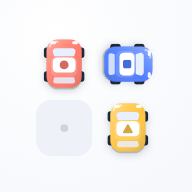
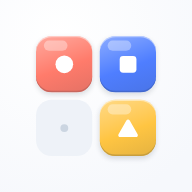
Такси-пятнашки: обратно квадратные такси
Машинки на поле 5×5 слишком детальные, автор вернул тайлы. Сложный уровень 5
остаётся.

Claude-Session: https://claude.ai/code/session_01UgfpgFwki24HqyBcqzzLcR

Changed region(s): [[0.1875, 0.1875, 0.8125, 0.8125]]

diff --git a/UI Design/prototypes/taxi-slide/index.html b/UI Design/prototypes/taxi-slide/index.html
@@ -49,11 +49,7 @@
   .board { position: absolute; background: var(--ui-surface); border-radius: var(--ui-radius-card); box-shadow: var(--ui-shadow-card); padding: 8px; display: grid; gap: 5px; }
   .cell { position: relative; border-radius: 12px; background: var(--ui-surface-muted); display: grid; place-items: center; }
   .cell.empty::before { content: ""; width: 7px; height: 7px; border-radius: 50%; background: var(--ui-disabled); }
-  .cell > .cab { position: absolute; inset: 1px; }
-  .cab { --rot: 0deg; position: relative; color: var(--c); transform: rotate(var(--rot)); filter: drop-shadow(0 4px 5px rgba(31,41,55,.16)); }
-  .cab svg.car-svg { width: 100%; height: 100%; display: block; }
-  .cab .sign { position: absolute; left: 50%; top: 51.5%; width: 21%; height: 21%; transform: translate(-50%, -50%) rotate(calc(-1 * var(--rot))); color: color-mix(in srgb, var(--c) 80%, #1f2937); }
-  .cab .sign svg { width: 100%; height: 100%; display: block; }
+  .cell > .tile { position: absolute; inset: 1px; }
   .cell.target { box-shadow: 0 0 0 3px var(--tc); }
   .cell.target.empty { background: color-mix(in srgb, var(--tc) 12%, var(--ui-surface-muted)); }
 
@@ -78,7 +74,7 @@
   /* home */
   .home { justify-content: space-between; align-items: center; text-align: center; padding: var(--ui-space-7) var(--ui-space-5) var(--ui-space-7); background: radial-gradient(120% 60% at 50% 0%, #fff 0%, var(--ui-background) 70%); }
   .logo { display: grid; grid-template-columns: repeat(3, 64px); gap: 8px; margin-top: var(--ui-space-7); }
-  .logo .cab, .logo .ghost { width: 64px; height: 64px; }
+  .logo .tile, .logo .ghost { width: 64px; height: 64px; }
   .logo .ghost { border-radius: 14px; background: var(--ui-surface-muted); display: grid; place-items: center; }
   .logo .ghost::before { content: ""; width: 8px; height: 8px; border-radius: 50%; background: var(--ui-disabled); }
   .home h1 { font-size: 34px; font-weight: 700; line-height: 1.15; margin-top: var(--ui-space-6); }
@@ -117,7 +113,7 @@
   .rules li { display: flex; gap: var(--ui-space-3); font-size: 14px; line-height: 1.4; }
   .rules li b { flex: none; width: 24px; height: 24px; border-radius: 8px; background: #e8efff; color: var(--ui-blue); font-size: 12px; display: grid; place-items: center; }
   .demo { display: flex; justify-content: center; align-items: center; gap: 6px; margin: var(--ui-space-2) 0; }
-  .demo .cab, .demo .dcell { width: 44px; height: 44px; }
+  .demo .tile, .demo .dcell { width: 44px; height: 44px; }
   .demo .dcell { border-radius: 12px; background: var(--ui-surface-muted); display: grid; place-items: center; }
   .demo .dcell::before { content: ""; width: 7px; height: 7px; border-radius: 50%; background: var(--ui-disabled); }
   .demo .arrow { color: var(--ui-blue); width: 22px; height: 22px; }
@@ -152,8 +148,7 @@
 <script>
 const GLYPH = { red: 'g-circle', blue: 'g-square', yellow: 'g-triangle' };
 const use = (id, cls = '') => `<svg class="${cls}"><use href="#${id}"/></svg>`;
-// Машинка — assets/taxi-car.svg; render.mjs кладёт её текст в window.TAXI_CAR.
-const taxi = (color, rot = 0) => `<div class="cab c-${color}" style="--rot:${rot}deg">${window.TAXI_CAR ?? ''}<span class="sign">${use(GLYPH[color])}</span></div>`;
+const taxi = (color) => `<div class="tile c-${color}">${use(GLYPH[color], 'glyph')}</div>`;
 const paxEl = (color, patience, critical, style = '') =>
   `<div class="pax c-${color}${critical ? ' critical' : ''}" style="${style}"><span class="num">${patience}</span><span class="mark">${use(GLYPH[color])}</span></div>`;
 const colorVar = { red: 'var(--ui-coral)', blue: 'var(--ui-blue)', yellow: 'var(--ui-yellow)' };
@@ -234,9 +229,9 @@ const game1 = gameScreen({ level: 1, served: 0, total: 3, grid: LEVEL1, passenge
 const screens = [
   ['1. Главный', `<div class="phone home">
       <div class="logo">
-        ${taxi('red')}<div class="ghost"></div>${taxi('blue', 90)}
+        ${taxi('red')}<div class="ghost"></div>${taxi('blue')}
         <div class="ghost"></div>${taxi('yellow')}<div class="ghost"></div>
-        ${taxi('blue', 270)}<div class="ghost"></div>${taxi('red', 180)}
+        ${taxi('blue')}<div class="ghost"></div>${taxi('red')}
       </div>
       <h1>Такси-<br>пятнашки</h1>
       <div style="flex:1"></div>
@@ -257,7 +252,7 @@ const screens = [
   ['4. «Как играть» — сам на уровне 1 и по «?»', `<div class="phone">${game1}
       <div class="scrim"><div class="modal">
         <h2>Как играть?</h2>
-        <div class="demo">${taxi('blue', 90)}${use('i-arrow', 'arrow')}<div class="dcell"></div>${use('i-arrow', 'arrow')}${paxEl('blue', 3, false)}</div>
+        <div class="demo">${taxi('blue')}${use('i-arrow', 'arrow')}<div class="dcell"></div>${use('i-arrow', 'arrow')}${paxEl('blue', 3, false)}</div>
         <ol class="rules">
           <li><b>1</b><span>Сдвигай такси в соседнюю пустую клетку.</span></li>
           <li><b>2</b><span>Подай такси того же цвета и знака к пассажиру, пока его число не стало нулём.</span></li>

diff --git a/apps/taxi-slide/src/styles.css b/apps/taxi-slide/src/styles.css
@@ -101,23 +101,17 @@ svg { display: block; }
 .c-yellow { --c: var(--ui-yellow); }
 .c-green { --c: var(--ui-success); }
 
-/* ---------- машинка такси ---------- */
-.car { --rot: 0deg; position: relative; width: 100%; height: 100%; color: var(--c); transform: rotate(var(--rot)); transition: transform 170ms cubic-bezier(.3,1.3,.5,1); }
-.car .car-svg { width: 100%; height: 100%; }
-.car .sign { position: absolute; left: 50%; top: 51.5%; width: 21%; height: 21%; transform: translate(-50%, -50%) rotate(calc(-1 * var(--rot))); transition: transform 170ms cubic-bezier(.3,1.3,.5,1); color: color-mix(in srgb, var(--c) 80%, #1f2937); display: grid; place-items: center; }
-.car .sign svg { width: 100%; height: 100%; }
-
 /* ---------- главный ---------- */
 .home { align-items: center; text-align: center; justify-content: space-between; background: radial-gradient(120% 60% at 50% 0%, #fff 0%, var(--ui-background) 70%); }
 .home-logo { margin-top: 12vh; display: grid; grid-template-columns: repeat(3, 68px); gap: 10px; }
 .home-logo > * { width: 68px; height: 68px; }
 .home-logo .hole { border-radius: 28%; background: var(--ui-surface-muted); display: grid; place-items: center; }
 .home-logo .hole::before { content: ""; width: 8px; height: 8px; border-radius: 50%; background: var(--ui-disabled); }
-.home-logo .bob { animation: float 3.2s ease-in-out infinite; filter: drop-shadow(0 6px 8px rgba(31,41,55,.16)); }
-.home-logo .bob:nth-child(3) { animation-delay: -.8s; }
-.home-logo .bob:nth-child(5) { animation-delay: -1.6s; }
-.home-logo .bob:nth-child(7) { animation-delay: -2.4s; }
-.home-logo .bob:nth-child(9) { animation-delay: -1.2s; }
+.home-logo .tile { animation: float 3.2s ease-in-out infinite; }
+.home-logo .tile:nth-child(3) { animation-delay: -.8s; }
+.home-logo .tile:nth-child(5) { animation-delay: -1.6s; }
+.home-logo .tile:nth-child(7) { animation-delay: -2.4s; }
+.home-logo .tile:nth-child(9) { animation-delay: -1.2s; }
 @keyframes float { 50% { transform: translateY(-6px); } }
 .home h1 { font-size: 36px; font-weight: 700; line-height: 1.15; margin-top: var(--ui-space-6); }
 .home .btn-large { max-width: 360px; margin-bottom: var(--ui-space-5); animation: breathe 2.4s ease-in-out infinite; }
@@ -199,13 +193,13 @@ svg { display: block; }
 .slot.missed { box-shadow: inset 0 0 0 3px var(--ui-danger); background: #ffe4e6; }
 
 .taxi { position: absolute; left: 0; top: 0; z-index: 2; will-change: transform; }
-.taxi .lift { width: 100%; height: 100%; transition: transform 140ms ease, filter 140ms ease; filter: drop-shadow(0 5px 6px rgba(31,41,55,.16)); }
+.taxi .tile { transition: transform 140ms ease, box-shadow 140ms ease; }
 .taxi.lifted { z-index: 4; }
-.taxi.lifted .lift { transform: scale(1.1); filter: drop-shadow(0 12px 12px rgba(31,41,55,.24)); }
-.taxi.nudge-x .lift { animation: shake-x 300ms ease; }
-.taxi.nudge-y .lift { animation: shake-y 300ms ease; }
+.taxi.lifted .tile { transform: scale(1.08); box-shadow: 0 14px 24px rgba(31,41,55,.22), inset 0 -3px 0 color-mix(in srgb, var(--c) 75%, #1f2937), inset 0 2px 0 rgba(255,255,255,0.45); }
+.taxi.nudge-x .tile { animation: shake-x 300ms ease; }
+.taxi.nudge-y .tile { animation: shake-y 300ms ease; }
 @keyframes shake-y { 20% { transform: translateY(-5px); } 40% { transform: translateY(5px); } 60% { transform: translateY(-3px); } 80% { transform: translateY(2px); } }
-.taxi.hop .lift { animation: hop 520ms cubic-bezier(.3,1.5,.5,1) both; }
+.taxi.hop .tile { animation: hop 520ms cubic-bezier(.3,1.5,.5,1) both; }
 @keyframes hop { 30% { transform: translateY(-14px) scale(1.05); } }
 
 .pax {
@@ -287,13 +281,13 @@ svg { display: block; }
 .rules li { display: flex; gap: var(--ui-space-3); font-size: 14px; line-height: 1.4; }
 .rules li b { flex: none; width: 24px; height: 24px; border-radius: 8px; background: #e8efff; color: var(--ui-blue); font-size: 12px; display: grid; place-items: center; }
 .demo { display: flex; justify-content: center; align-items: center; gap: 6px; margin: var(--ui-space-2) 0; }
-.demo .slide, .demo .hole { width: 44px; height: 44px; flex: none; }
+.demo .tile, .demo .hole { width: 44px; height: 44px; flex: none; }
 .demo .hole { border-radius: 26%; background: var(--ui-surface-muted); display: grid; place-items: center; }
 .demo .hole::before { content: ""; width: 7px; height: 7px; border-radius: 50%; background: var(--ui-disabled); }
 .demo .arrow { color: var(--ui-blue); width: 22px; height: 22px; flex: none; }
 .demo .pax { position: relative; width: 40px; height: 40px; flex: none; animation: none; }
 .demo .pax .num { font-size: 16px; }
-.demo .slide { animation: demo-slide 2.4s ease-in-out infinite; filter: drop-shadow(0 4px 5px rgba(31,41,55,.16)); }
+.demo .tile.slide { animation: demo-slide 2.4s ease-in-out infinite; }
 @keyframes demo-slide { 0%, 25% { transform: translateX(0); } 45%, 80% { transform: translateX(78px); opacity: 1; } 95% { transform: translateX(78px); opacity: 0; } 100% { opacity: 0; } }
 
 @media (prefers-reduced-motion: reduce) {

diff --git a/apps/taxi-slide/src/ui/board.ts b/apps/taxi-slide/src/ui/board.ts
@@ -1,7 +1,7 @@
 import { targetCell } from '../engine/taxiEngine.ts';
 import type { Cell, Direction, LevelState, PassengerState, Side, Taxi } from '../engine/types.ts';
 import { vibrate, wait } from './feedback.ts';
-import { glyph, taxiCar } from './icons.ts';
+import { glyph } from './icons.ts';
 
 export interface BoardHandlers {
   /** Можно ли сдвинуть такси — спрашивает движок, доска не знает правил. */
@@ -49,7 +49,7 @@ export class Board {
   readonly el: HTMLElement;
   private readonly boardEl: HTMLElement;
   private readonly slots: HTMLElement[] = [];
-  private readonly taxis = new Map<string, { el: HTMLElement; taxi: Taxi; angle: number }>();
+  private readonly taxis = new Map<string, { el: HTMLElement; taxi: Taxi }>();
   private readonly passengers = new Map<string, HTMLElement>();
   private geo: Geometry = { cell: 48, gap: 5, pad: 8, lane: 40, pax: 36, size: 360 };
   private drag: Drag | null = null;
@@ -140,19 +140,9 @@ export class Board {
     el.className = 'taxi';
     el.dataset['taxi'] = taxi.id;
     el.dataset['color'] = taxi.color;
-    el.innerHTML = `<div class="lift">${taxiCar(taxi.color)}</div>`;
+    el.innerHTML = `<div class="tile c-${taxi.color}">${glyph(taxi.color)}</div>`;
     this.el.append(el);
-    this.taxis.set(taxi.id, { el, taxi, angle: 0 });
-  }
-
-  /** Поворачивает машинку носом по направлению — кратчайшим путём. */
-  private turn(entry: { el: HTMLElement; angle: number }, direction: Direction): void {
-    const target = { up: 0, right: 90, down: 180, left: 270 }[direction];
-    const current = ((entry.angle % 360) + 360) % 360;
-    const delta = ((target - current + 540) % 360) - 180;
-    if (delta === 0) return;
-    entry.angle += delta;
-    entry.el.querySelector<HTMLElement>('.car')?.style.setProperty('--rot', `${String(entry.angle)}deg`);
+    this.taxis.set(taxi.id, { el, taxi });
   }
 
   async moveTaxi(taxiId: string, to: Cell): Promise<void> {
@@ -173,7 +163,6 @@ export class Board {
     if (entry === undefined) return;
     const cell = { row: entry.taxi.row, col: entry.taxi.col };
     const out = SIDE_VECTOR[passenger.target.side];
-    const exit = { top: 'up', right: 'right', bottom: 'down', left: 'left' } as const;
     const distance = this.geo.cell + this.geo.lane + 24;
 
     if (paxEl !== undefined) {
@@ -190,8 +179,6 @@ export class Board {
     paxEl?.remove();
     this.passengers.delete(passenger.id);
 
-    this.turn(entry, exit[passenger.target.side]);
-    await wait(90);
     entry.el.style.transition = 'transform 240ms cubic-bezier(.5,0,.8,.4), opacity 240ms ease-in';
     this.place(entry.el, cell, out.col * distance, out.row * distance);
     entry.el.style.opacity = '0';
@@ -229,8 +216,8 @@ export class Board {
   /** Победа: оставшиеся такси подпрыгивают волной из угла. */
   async celebrate(): Promise<void> {
     for (const { el, taxi } of this.taxis.values()) {
-      const lift = el.firstElementChild as HTMLElement | null;
-      if (lift !== null) lift.style.animationDelay = `${String((taxi.row + taxi.col) * 50)}ms`;
+      const tile = el.firstElementChild as HTMLElement | null;
+      if (tile !== null) tile.style.animationDelay = `${String((taxi.row + taxi.col) * 50)}ms`;
       el.classList.add('hop');
     }
     vibrate([20, 40, 20, 40, 40]);
@@ -358,8 +345,6 @@ export class Board {
     if (direction !== drag.direction) {
       drag.direction = direction;
       drag.movable = this.handlers.canMove(drag.taxiId, direction);
-      const turning = this.taxis.get(drag.taxiId);
-      if (drag.movable && turning !== undefined) this.turn(turning, direction);
     }
     drag.delta = delta;
 

diff --git a/apps/taxi-slide/tools/brand.html b/apps/taxi-slide/tools/brand.html
@@ -6,13 +6,12 @@
 <style>
   * { box-sizing: border-box; margin: 0; }
   body { font-family: var(--ui-font); background: transparent; }
-  .cab { --rot: 0deg; position: relative; color: var(--c); transform: rotate(var(--rot)); filter: drop-shadow(0 8px 10px rgba(31,41,55,.18)); }
-  .cab svg.car-svg { width: 100%; height: 100%; display: block; }
-  .cab .sign { position: absolute; left: 50%; top: 51.5%; width: 21%; height: 21%; transform: translate(-50%, -50%) rotate(calc(-1 * var(--rot))); color: color-mix(in srgb, var(--c) 80%, #1f2937); }
-  .cab .sign svg { width: 100%; height: 100%; display: block; }
+  .tile { --c: var(--ui-blue); position: relative; border-radius: 28%; background: linear-gradient(160deg, color-mix(in srgb, var(--c) 65%, #fff) 0%, var(--c) 55%, color-mix(in srgb, var(--c) 88%, #1f2937) 100%); box-shadow: 0 7px 14px rgba(31,41,55,.14), inset 0 -4px 0 color-mix(in srgb, var(--c) 75%, #1f2937), inset 0 3px 0 rgba(255,255,255,.45); display: grid; place-items: center; }
+  .tile::after { content: ""; position: absolute; left: 14%; top: 8%; width: 42%; height: 18%; border-radius: 999px; background: rgba(255,255,255,.35); }
+  .tile svg { width: 42%; height: 42%; color: #fff; position: relative; z-index: 1; }
   .hole { border-radius: 28%; background: var(--ui-surface-muted); display: grid; place-items: center; }
   .hole::before { content: ""; width: 14%; height: 14%; border-radius: 50%; background: var(--ui-disabled); }
-  .c-red { --c: var(--ui-coral); } .c-blue { --c: var(--ui-blue); } .c-yellow { --c: var(--ui-yellow); }
+  .c-red { --c: var(--ui-coral); } .c-yellow { --c: var(--ui-yellow); }
 
   #icon { width: 512px; height: 512px; background: radial-gradient(90% 90% at 30% 20%, #fff, var(--ui-background)); display: grid; place-items: center; }
   #icon .grid { display: grid; grid-template-columns: repeat(2, 150px); gap: 20px; }
@@ -35,17 +34,17 @@
 </defs></svg>
 
 <div id="icon"><div class="grid">
-  <div class="cab c-red" style="--rot:0deg"><span class="sign"><svg><use href="#g-red"/></svg></span></div>
-  <div class="cab c-blue" style="--rot:90deg"><span class="sign"><svg><use href="#g-blue"/></svg></span></div>
+  <div class="tile c-red"><svg><use href="#g-red"/></svg></div>
+  <div class="tile"><svg><use href="#g-blue"/></svg></div>
   <div class="hole"></div>
-  <div class="cab c-yellow" style="--rot:0deg"><span class="sign"><svg><use href="#g-yellow"/></svg></span></div>
+  <div class="tile c-yellow"><svg><use href="#g-yellow"/></svg></div>
 </div></div>
 
 <div id="og">
   <div class="grid">
-    <div class="cab c-red" style="--rot:0deg"><span class="sign"><svg><use href="#g-red"/></svg></span></div><div class="hole"></div><div class="cab c-blue" style="--rot:90deg"><span class="sign"><svg><use href="#g-blue"/></svg></span></div>
-    <div class="hole"></div><div class="cab c-yellow" style="--rot:0deg"><span class="sign"><svg><use href="#g-yellow"/></svg></span></div><div class="hole"></div>
-    <div class="cab c-blue" style="--rot:270deg"><span class="sign"><svg><use href="#g-blue"/></svg></span></div><div class="hole"></div><div class="cab c-red" style="--rot:180deg"><span class="sign"><svg><use href="#g-red"/></svg></span></div>
+    <div class="tile c-red"><svg><use href="#g-red"/></svg></div><div class="hole"></div><div class="tile"><svg><use href="#g-blue"/></svg></div>
+    <div class="hole"></div><div class="tile c-yellow"><svg><use href="#g-yellow"/></svg></div><div class="hole"></div>
+    <div class="tile"><svg><use href="#g-blue"/></svg></div><div class="hole"></div><div class="tile c-red"><svg><use href="#g-red"/></svg></div>
   </div>
   <div>
     <h1>Такси-<br>пятнашки</h1>

diff --git a/apps/taxi-slide/tools/make-images.ts b/apps/taxi-slide/tools/make-images.ts
@@ -4,29 +4,21 @@
  * Результат коммитится в public/ — на Vercel браузера нет.
  */
 import { chromium } from '@playwright/test';
-import { readFileSync } from 'node:fs';
 import { dirname, join } from 'node:path';
 import { fileURLToPath } from 'node:url';
 
 const here = dirname(fileURLToPath(import.meta.url));
 const pub = join(here, '../public');
-const car = readFileSync(join(here, '../../../UI Design/prototypes/taxi-slide/assets/taxi-car.svg'), 'utf8');
-// Машинка — одна, из UI Design: вставляется в каждый .cab перед снимком.
-const withCars = (html: string): void => {
-  for (const cab of document.querySelectorAll('.cab')) cab.insertAdjacentHTML('afterbegin', html);
-};
 
 const browser = await chromium.launch();
 const page = await browser.newPage({ viewport: { width: 1400, height: 1300 } });
 await page.goto(`file://${join(here, 'brand.html')}`);
 await page.evaluate(() => document.fonts.ready);
-await page.evaluate(withCars, car);
 
 for (const [size, name] of [[512, 'icon-512.png'], [192, 'icon-192.png'], [180, 'apple-touch-icon.png']] as const) {
   const scaled = await browser.newPage({ viewport: { width: 1400, height: 1300 }, deviceScaleFactor: size / 512 });
   await scaled.goto(`file://${join(here, 'brand.html')}`);
   await scaled.evaluate(() => document.fonts.ready);
-  await scaled.evaluate(withCars, car);
   await scaled.locator('#icon').screenshot({ path: join(pub, name) });
   await scaled.close();
 }

diff --git a/apps/taxi-slide/src/ui/screens.ts b/apps/taxi-slide/src/ui/screens.ts
@@ -1,5 +1,5 @@
 import { LEVEL_COUNT, LEVELS } from '../levels/loadLevels.ts';
-import { icon, taxiCar } from './icons.ts';
+import { icon, taxiTile } from './icons.ts';
 import { currentLevel, isUnlocked, loadProgress } from './storage.ts';
 
 export type Go = (route: string) => void;
@@ -10,9 +10,9 @@ export function homeScreen(go: Go): HTMLElement {
   el.dataset['testid'] = 'home';
   el.innerHTML = `
     <div class="home-logo" aria-hidden="true">
-      <div class="bob">${taxiCar('red')}</div><div class="hole"></div><div class="bob">${taxiCar('blue', '', 90)}</div>
-      <div class="hole"></div><div class="bob">${taxiCar('yellow')}</div><div class="hole"></div>
-      <div class="bob">${taxiCar('blue', '', 270)}</div><div class="hole"></div><div class="bob">${taxiCar('red', '', 180)}</div>
+      ${taxiTile('red')}<div class="hole"></div>${taxiTile('blue')}
+      <div class="hole"></div>${taxiTile('yellow')}<div class="hole"></div>
+      ${taxiTile('blue')}<div class="hole"></div>${taxiTile('red')}
     </div>
     <h1>Такси-<br>пятнашки</h1>
     <div style="flex:1"></div>

diff --git a/apps/taxi-slide/src/ui/game.ts b/apps/taxi-slide/src/ui/game.ts
@@ -3,7 +3,7 @@ import type { Direction, LevelState, PassengerState } from '../engine/types.ts';
 import { getLevel, LEVEL_COUNT } from '../levels/loadLevels.ts';
 import { Board } from './board.ts';
 import { wait } from './feedback.ts';
-import { arrowIcon, glyph, icon, taxiCar } from './icons.ts';
+import { arrowIcon, glyph, icon, taxiTile } from './icons.ts';
 import { log } from './log.ts';
 import { openPopup } from './popup.ts';
 import type { Go } from './screens.ts';
@@ -23,7 +23,7 @@ function mostUrgent(passengers: readonly PassengerState[]): PassengerState | und
 const HOW_TO_PLAY = `
   <h2>Как играть?</h2>
   <div class="demo" aria-hidden="true">
-    <div class="slide">${taxiCar('blue', '', 90)}</div>${arrowIcon('arrow')}<div class="hole"></div>${arrowIcon('arrow')}
+    ${taxiTile('blue', 'slide')}${arrowIcon('arrow')}<div class="hole"></div>${arrowIcon('arrow')}
     <div class="pax" style="--c:var(--ui-blue)"><span class="num">3</span><span class="mark">${glyph('blue', '')}</span></div>
   </div>
   <ol class="rules">

diff --git a/apps/taxi-slide/src/ui/icons.ts b/apps/taxi-slide/src/ui/icons.ts
@@ -1,4 +1,3 @@
-import carSvg from '@ui/prototypes/taxi-slide/assets/taxi-car.svg?raw';
 import type { TaxiColor } from '../engine/types.ts';
 
 const svg = (body: string, cls = ''): string =>
@@ -27,8 +26,6 @@ export const icon = {
 
 export const arrowIcon = (cls: string): string => icon.arrow.replace('class=""', `class="${cls}"`);
 
-/** Машинка такси сверху, нос вверх; на табличке на крыше — знак цвета. */
-export function taxiCar(color: TaxiColor, extra = '', rotation = 0): string {
-  const style = rotation === 0 ? '' : ` style="--rot:${String(rotation)}deg"`;
-  return `<div class="car c-${color} ${extra}"${style}>${carSvg}<span class="sign">${glyph(color, '')}</span></div>`;
+export function taxiTile(color: TaxiColor, extra = ''): string {
+  return `<div class="tile c-${color} ${extra}">${glyph(color)}</div>`;
 }

diff --git a/specs/02-two-moves-later.md b/specs/02-two-moves-later.md
@@ -324,7 +324,7 @@ type Action =
 исходник там же. Стиль — PuzzleKit UI из `UI Design/`, новых цветов, радиусов
 и теней нет.
 
-1. **Главный.** Декоративные машинки такси, название «Такси-пятнашки», внизу
+1. **Главный.** Декоративные тайлы-такси, название «Такси-пятнашки», внизу
    одна кнопка «Играть». Больше ничего.
 2. **Уровни.** Сверху «назад» и заголовок. Пять карточек: номер-тайл,
    «Уровень N», число пассажиров. Пройденный — зелёный тайл и галочка.
@@ -353,15 +353,12 @@ type Action =
 на краю поля: такси соединяется с кругом и выезжает наружу, его клетка
 становится новой пустотой.
 
-**Такси — машинки.** Вид сверху, в стиле тайлов PuzzleKit, цвет кузова — из
-токенов. Машинка поворачивается носом туда, куда её ведут, и уезжает носом
-к краю. Рисунок один — `UI Design/prototypes/taxi-slide/assets/taxi-car.svg`,
-его берут игра, макет и иконки (решение автора 2026-09-24).
+**Такси — тайлы PuzzleKit.** Машинки сверху пробовали 2026-09-24: на поле
+5×5 они слишком детальные, глазам тяжело, автор вернул тайлы.
 
-**Второй канал к цвету.** Цвет дублируется знаком: коралловый — круг, синий —
-квадрат, жёлтый — треугольник. Знак стоит на белой табличке «такси» на крыше
-машинки (не поворачивается вместе с ней), на пассажире и на его кружке в
-строке пассажиров.
+**Второй канал к цвету.** Цвет дублируется знаком внутри объекта: коралловый —
+круг, синий — квадрат, жёлтый — треугольник. Знак стоит на такси, на
+пассажире и на его кружке в строке пассажиров.
 
 # 8. Проверка прототипа
 

diff --git a/UI Design/prototypes/taxi-slide/README.md b/UI Design/prototypes/taxi-slide/README.md
@@ -7,8 +7,6 @@
 - `preview.png` — все экраны на одном листе.
 - `render.mjs` — пересобирает `preview.png` и `specs/screens/02-two-moves-later.png`.
 
-Такси — машинка сверху, `assets/taxi-car.svg`, одна на игру, макет и иконки.
-Цвет кузова — `currentColor` из токенов; на белой табличке на крыше — знак цвета:
-коралловый — круг, синий — квадрат, жёлтый — треугольник. Новых цветов, радиусов
-и теней нет. `render.mjs` подставляет машинку в макет перед снимком.
+Такси — тайлы кита, у которых белая «таблетка» заменена знаком цвета: коралловый —
+круг, синий — квадрат, жёлтый — треугольник. Новых цветов, радиусов и теней нет.
 Раскладки игрового экрана и «Как играть» — уровни 4 и 1 из прототипа в play.
